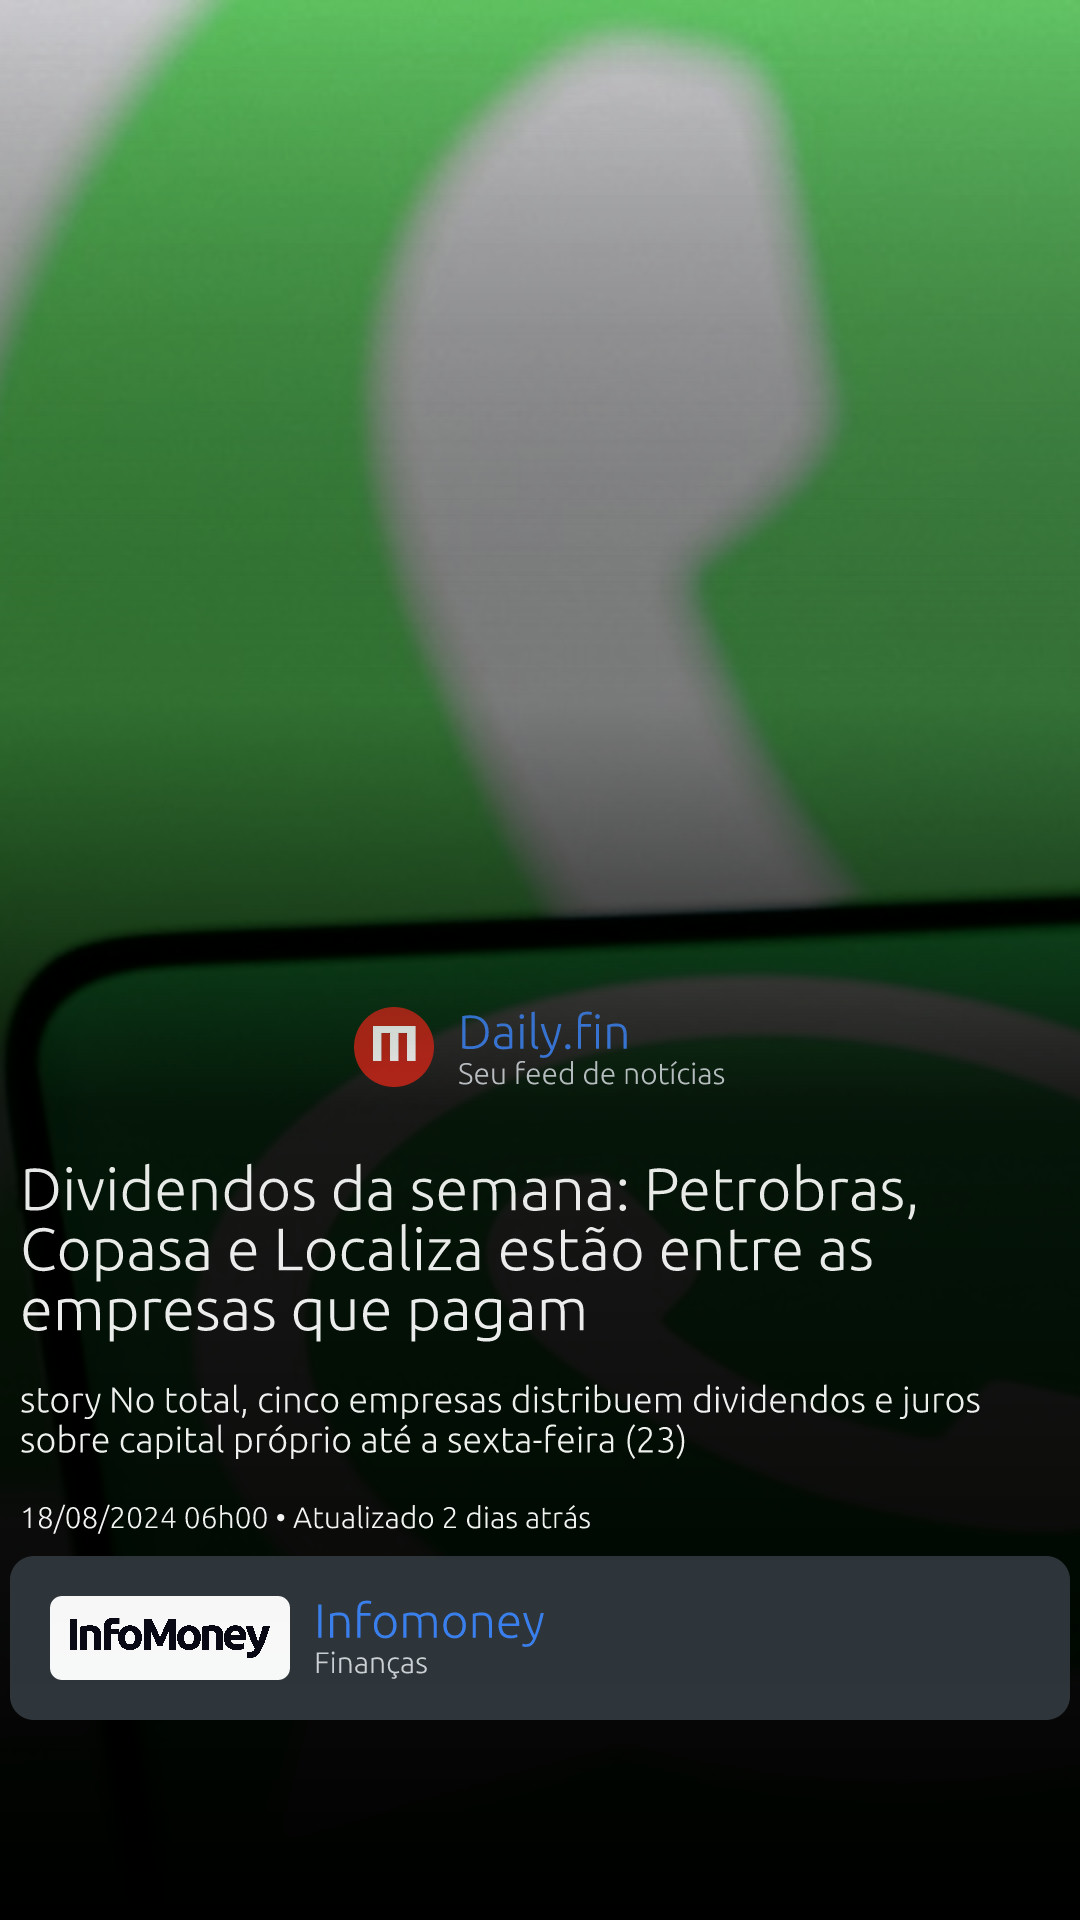
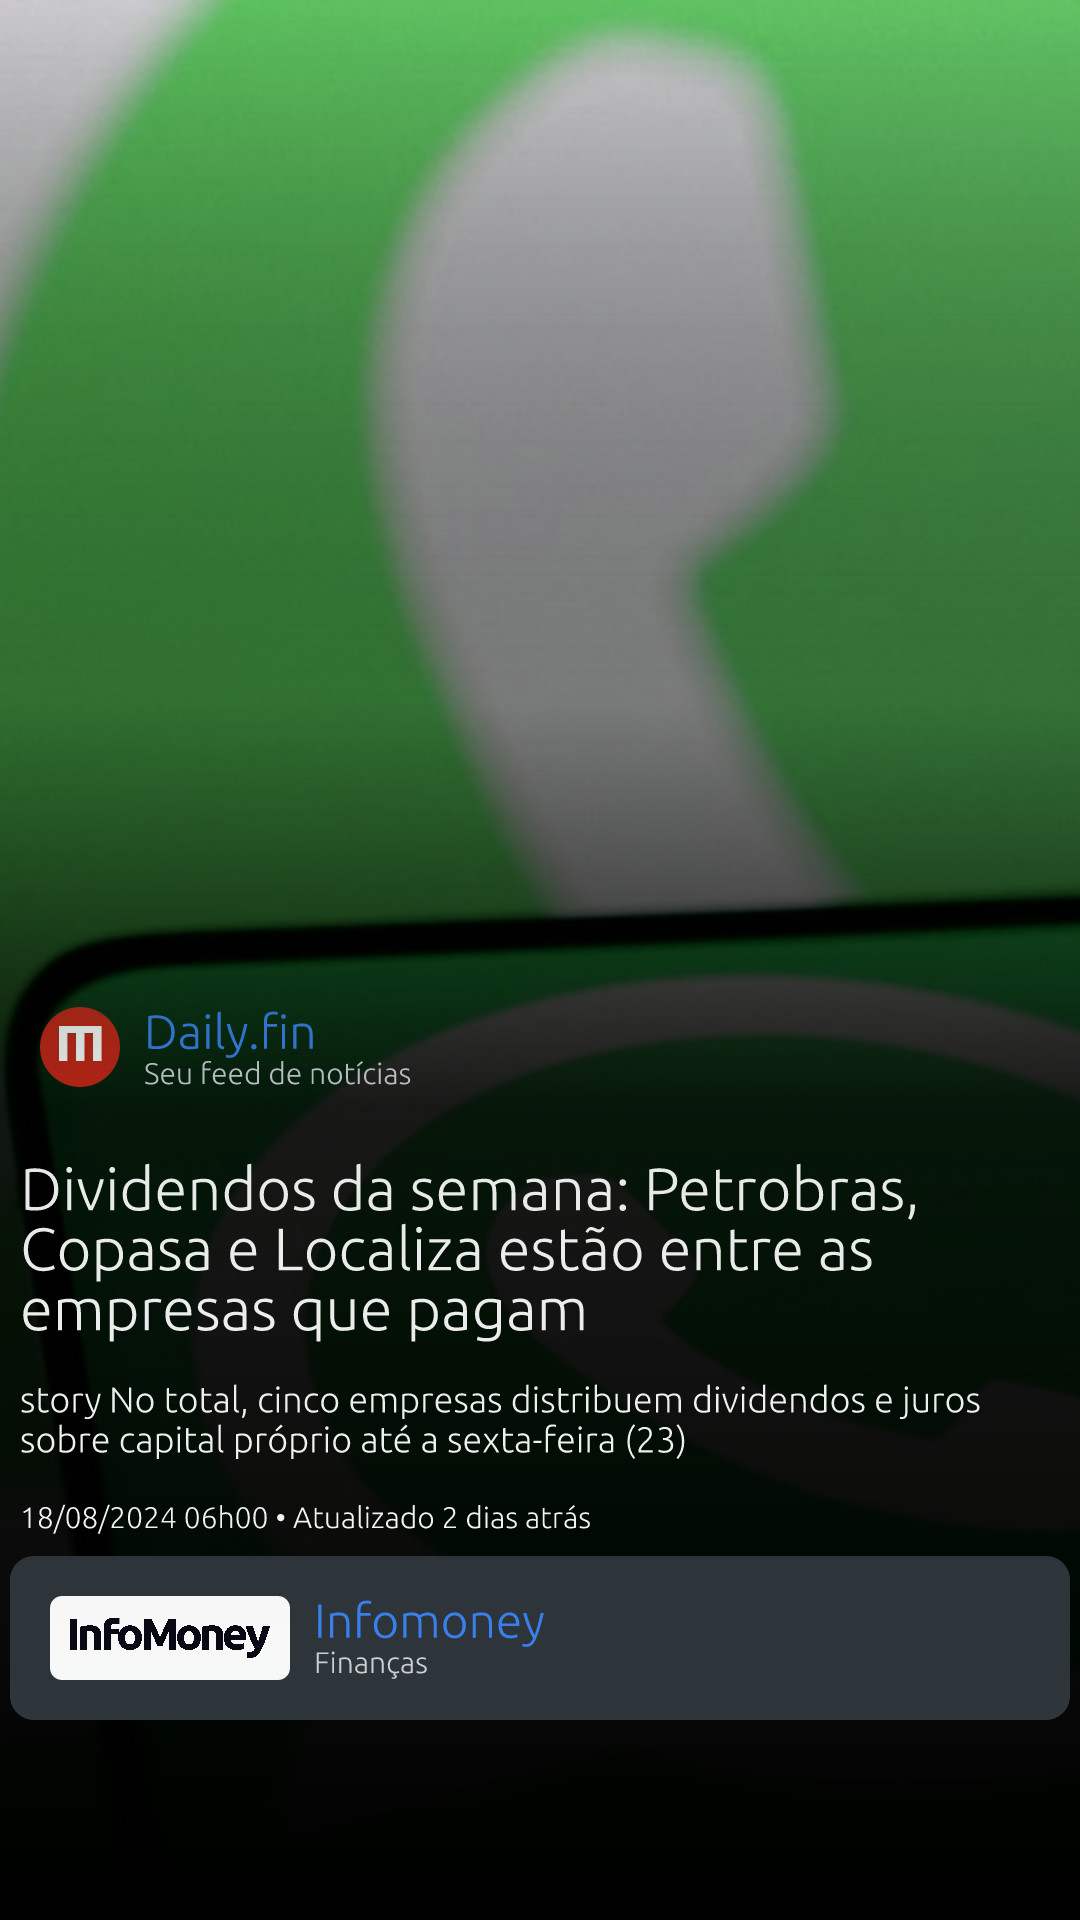
Refatoração React

Changed region(s): [[0.0306, 0.5, 0.3972, 0.5938], [0.4278, 0.5312, 0.5806, 0.5625]]

diff --git a/src/GreetingsCard.tsx b/src/GreetingsCard.tsx
@@ -7,12 +7,17 @@
 import { JSX, Builder, loadImage } from "canvacord";
 
 interface Props {
-  displayName: string;
-  type: "welcome" | "goodbye";
-  avatar: string;
-  message: string;
-  size: "story" | "post" | "postlg";
+  category: string,
+  company: string,
+  companyLogo: string,
+  title: string,
+  description: string,
+  date: string,
+  link: string,
+  type: "story" | "post" | "postlg",
+  outputPathName: string,
 }
+
 
 export class GreetingsCard extends Builder<Props> {
   constructor(value: "story" | "post" | "postlg") {
@@ -20,15 +25,15 @@ export class GreetingsCard extends Builder<Props> {
     switch (value) {
       case 'story':
         super(1080, 1920);
-        this.setSize('story')
+        this.setType('story')
         break;
       case 'post':
         super(1080, 1080);
-        this.setSize('post')
+        this.setType('post')
         break;
       case 'postlg':
         super(1080, 608);
-        this.setSize('postlg')
+        this.setType('postlg')
         break;
       default:
         super(1080, 608);
@@ -40,38 +45,60 @@ export class GreetingsCard extends Builder<Props> {
     //   type: "welcome",
     //   avatar: "",
     //   message: "",
-    //   size: this.s
+    //   type: this.s
     // });
   }
 
-  setSize(value: "story" | "post" | "postlg") {
-    this.options.set("size", value);
-    return this;
-  }
-
-  setDisplayName(value: string) {
-    this.options.set("displayName", value);
-    return this;
-  }
-
-  setType(value: Props["type"]) {
+  setType(value: "story" | "post" | "postlg") {
     this.options.set("type", value);
     return this;
   }
 
-  setAvatar(value: string) {
-    this.options.set("avatar", value);
+  setLink(value: string) {
+    this.options.set("link", value);
     return this;
   }
 
-  setMessage(value: string) {
-    this.options.set("message", value);
+  setDescription(value: string) {
+    this.options.set("description", value);
     return this;
   }
+
+  setDate(value: string) {
+    this.options.set("date", value);
+    return this;
+  }
+
+  setTitle(value: string) {
+    this.options.set("title", value);
+    return this;
+  }
+
+  setCategory(value: string) {
+    this.options.set("category", value);
+    return this;
+  }
+
+  setCompanyLogo(value: string) {
+    this.options.set("companyLogo", value);
+    return this;
+  }
+
+  setCompany(value: string) {
+    this.options.set("company", value);
+    return this;
+  }
+
+  setOutputPathName(value: string) {
+    this.options.set("outputPathName", value);
+    return this;
+  }
+
+
 
   // this is where you have to define output ui
   async render() {
-    const { type, displayName, avatar, message, size } = this.options.getOptions();
+    const { type } = this.options.getOptions();
 
     // make sure to use the loadImage helper function to load images, otherwise you may get errors
     const image = await loadImage("https://files.metropoles.com/static/expediente/assets/images/general/portal-metropoles.jpg");
@@ -123,7 +150,7 @@ export class GreetingsCard extends Builder<Props> {
           >
             <span className="pt-[100%]"></span>
 
-            <div className="flex justify-center	 p-10 h-[170px] w-full">
+            <div className="flex we	 p-10 h-[170px] w-full">
               <img
                 src={image.toDataURL()}
                 className="flex h-[80px] w-[80px] rounded-full"
@@ -138,9 +165,9 @@ export class GreetingsCard extends Builder<Props> {
 
 
             <h1 className="text-6xl text-white px-[20px] font-black">Dividendos da semana: Petrobras, Copasa e Localiza estão entre as empresas que pagam</h1>
-            <h3 className="text-4xl text-white px-[20px]"> {size} No total, cinco empresas distribuem dividendos e juros sobre capital próprio até a sexta-feira (23)</h3>
+            <h3 className="text-4xl text-white px-[20px]"> {type} No total, cinco empresas distribuem dividendos e juros sobre capital próprio até a sexta-feira (23)</h3>
             <h4 className="text-3xl text-white px-[20px]">18/08/2024 06h00 • Atualizado 2 dias atrás</h4>
-            <div className={`flex items-center p-10 bg-[#30363d] rounded-3xl ${size === 'story' ? 'mb-[200px]' : 'mb-[10px]'} mx-[10px]`} >
+            <div className={`flex items-center p-10 bg-[#30363d] rounded-3xl ${type === 'story' ? 'mb-[200px]' : 'mb-[10px]'} mx-[10px]`} >
               <div className="flex items-center bg-[#FFFFFF] rounded-xl px-[20px]	 h-[100%]">
                 <img
                   src={logo.toDataURL()}

diff --git a/src/publish.ts b/src/publish.ts
@@ -22,10 +22,15 @@ export const GenerateFile = async (dataFile: DataFile) => {
   const outputPath = `${dataFile.outputPathName}.jpg`
 
   const card = new GreetingsCard(dataFile.type)
-    .setAvatar("https://cdn.discordapp.com/embed/avatars/0.png")
-    .setDisplayName("Wumpus")
-    .setType("goodbye")
-    .setMessage("Welcome to the server!");
+    .setCompany(dataFile.company)
+    .setCompanyLogo(dataFile.companyLogo)
+    .setCategory(dataFile.category)
+    .setTitle(dataFile.title)
+    .setDescription(dataFile.description)
+    .setDate(dataFile.date)
+    .setLink(dataFile.link)
+    .setType(dataFile.type)
+    .setOutputPathName(dataFile.outputPathName);
 
   const image = await card.build({ format: "jpeg" });
 
